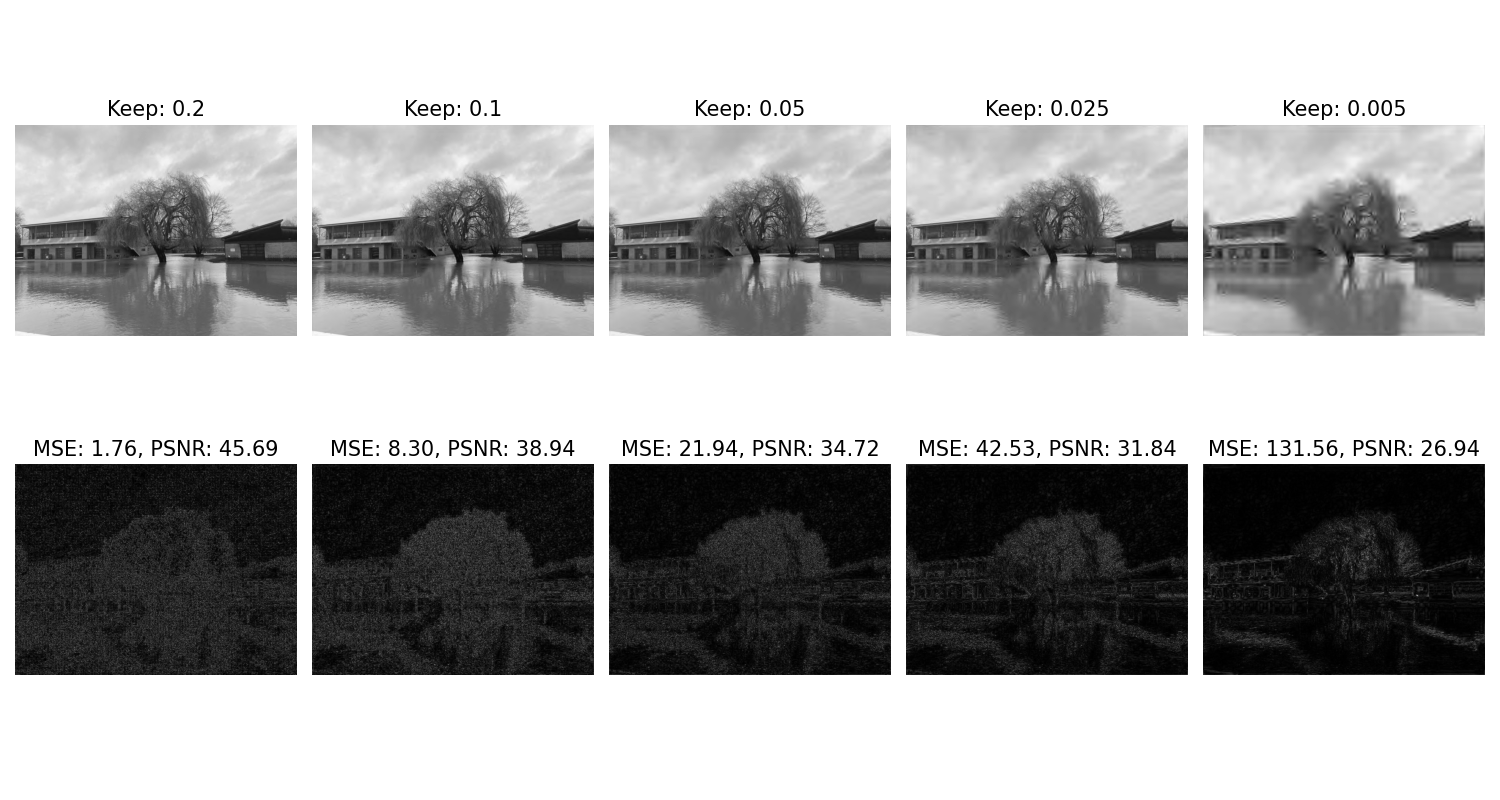
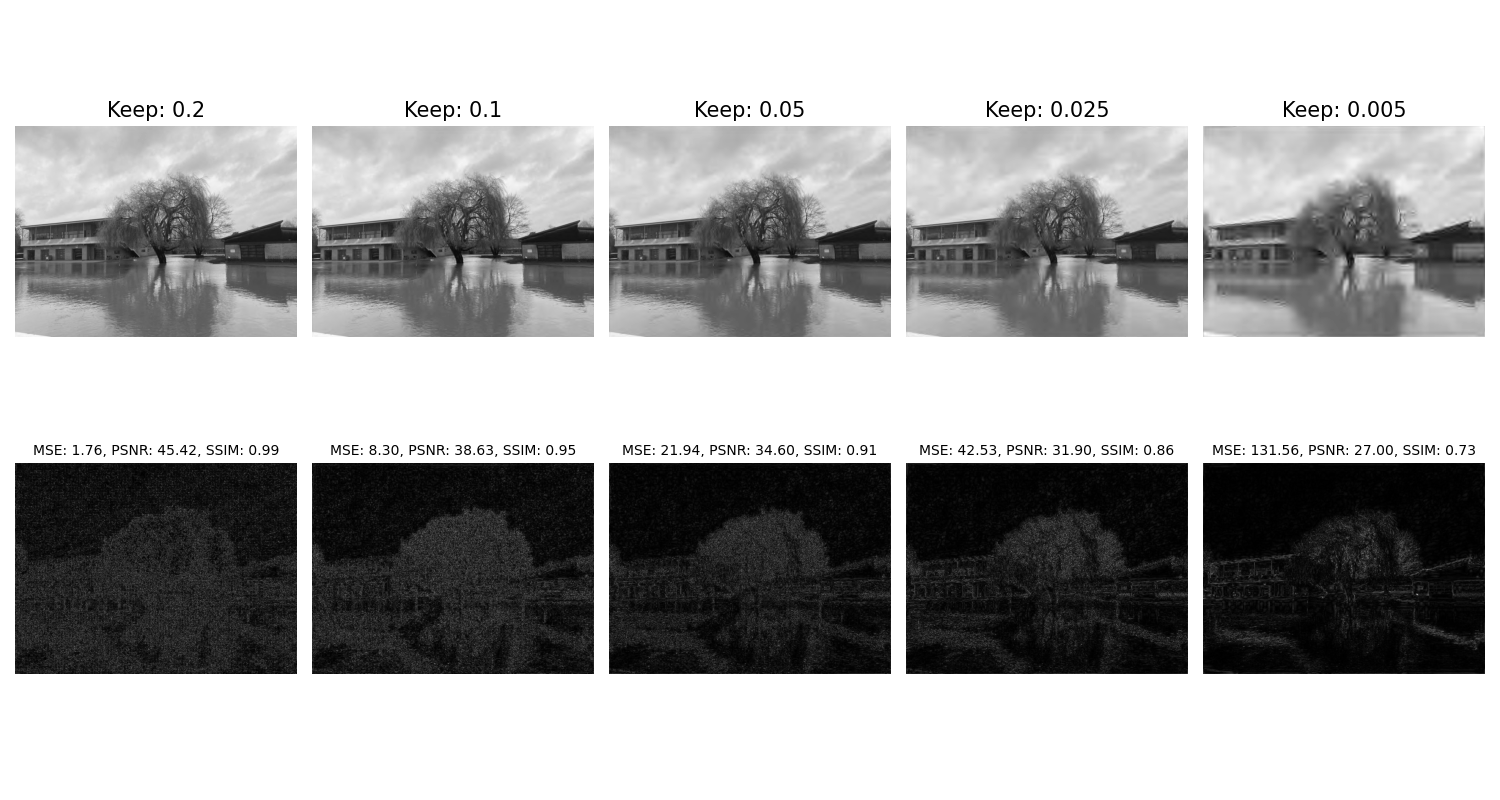
Added SSIM to Q2p3

diff --git a/scripts/Q2p3.py b/scripts/Q2p3.py
@@ -8,6 +8,7 @@ python ./scripts/Q2p3.py --img ./data/river_side.jpeg --output_dir ./figures
 import numpy as np
 import matplotlib.pyplot as plt
 import skimage.io as io
+from skimage.metrics import peak_signal_noise_ratio, structural_similarity
 import os
 from os.path import join
 import pywt
@@ -62,18 +63,19 @@ recon = pywt.waverec2(coeffs,wavelet=w,mode=mode)
 
 abs_diff = np.abs(image-recon)
 
-# Calculate MSE and PSNR and compression ratio
-mse = np.mean((image-recon)**2)
-psnr = 10*np.log10(255**2/mse)
+# Calculate MSE, PSNR, and SSIM
+vmin = min(image.min(),recon.min())
+vmax = max(image.max(),recon.max())
 
-print('Uncompressed reconstruction:')
-print(f'MSE: {mse}')
-print(f'PSNR: {psnr:.2f} dB')
+mse = np.mean(abs_diff**2)
+psnr = peak_signal_noise_ratio(image, recon, data_range=vmax-vmin)
+ssim = structural_similarity(image, recon, data_range=vmax-vmin)
+print(f'MSE: {mse:.2f}')
+print(f'PSNR: {psnr:.2f}')
+print(f'SSIM: {ssim:.2f}')
 
 # Show original, reconstruction, and difference
 fig, axes = plt.subplots(1,3,figsize=(8,8))
-vmin = min(image.min(),recon.min())
-vmax = max(image.max(),recon.max())
 axes[0].imshow(image,cmap='gray',vmin=vmin,vmax=vmax)
 axes[0].set_title('Original', fontsize=15)
 
@@ -117,17 +119,19 @@ coeff_thresh = threshold_coefficients(coeffs,0.15)
 recon = pywt.waverec2(coeff_thresh,wavelet=w,mode=mode)
 abs_diff = np.abs(image-recon)
 
-# Calculate MSE and PSNR
-mse = np.mean((image-recon)**2)
-psnr = 10*np.log10(255**2/mse)
-print('Compressed reconstruction:')
-print(f'MSE: {mse}')
-print(f'PSNR: {psnr:.2f} dB')
+# Calculate MSE, PSNR, and SSIM
+vmin = min(image.min(),recon.min())
+vmax = max(image.max(),recon.max())
+
+mse = np.mean(abs_diff**2)
+psnr = peak_signal_noise_ratio(image, recon, data_range=vmax-vmin)
+ssim = structural_similarity(image, recon, data_range=vmax-vmin)
+print(f'MSE: {mse:.2f}')
+print(f'PSNR: {psnr:.2f}')
+print(f'SSIM: {ssim:.2f}')
 
 # Show original, reconstruction, and difference
 fig, axes = plt.subplots(1,3,figsize=(8,8))
-vmin = min(image.min(),recon.min())
-vmax = max(image.max(),recon.max())
 
 axes[0].imshow(image,cmap='gray',vmin=vmin,vmax=vmax)
 axes[0].set_title('Original', fontsize=15)
@@ -175,9 +179,13 @@ for i, keep in enumerate(keep_proportions):
     recon = pywt.waverec2(coeff_thresh,wavelet=w,mode=mode)
     abs_diff = np.abs(image-recon)
 
-    # Calculate MSE and PSNR
-    mse = np.mean((image-recon)**2)
-    psnr = 10*np.log10(255**2/mse)
+    # Calculate MSE, PSNR, and SSIM
+    vmin = min(image.min(),recon.min())
+    vmax = max(image.max(),recon.max())
+
+    mse = np.mean(abs_diff**2)
+    psnr = peak_signal_noise_ratio(image, recon, data_range=vmax-vmin)
+    ssim = structural_similarity(image, recon, data_range=vmax-vmin)
 
     # Show reconstruction and difference
 
@@ -186,7 +194,7 @@ for i, keep in enumerate(keep_proportions):
     axes[0,i].axis('off')
 
     axes[1,i].imshow(abs_diff,cmap='gray')
-    axes[1,i].set_title(f'MSE: {mse:.2f}, PSNR: {psnr:.2f}', fontsize=15)
+    axes[1,i].set_title(f'MSE: {mse:.2f}, PSNR: {psnr:.2f}, SSIM: {ssim:.2f}', fontsize=10)
     axes[1,i].axis('off')
 
 plt.tight_layout()
